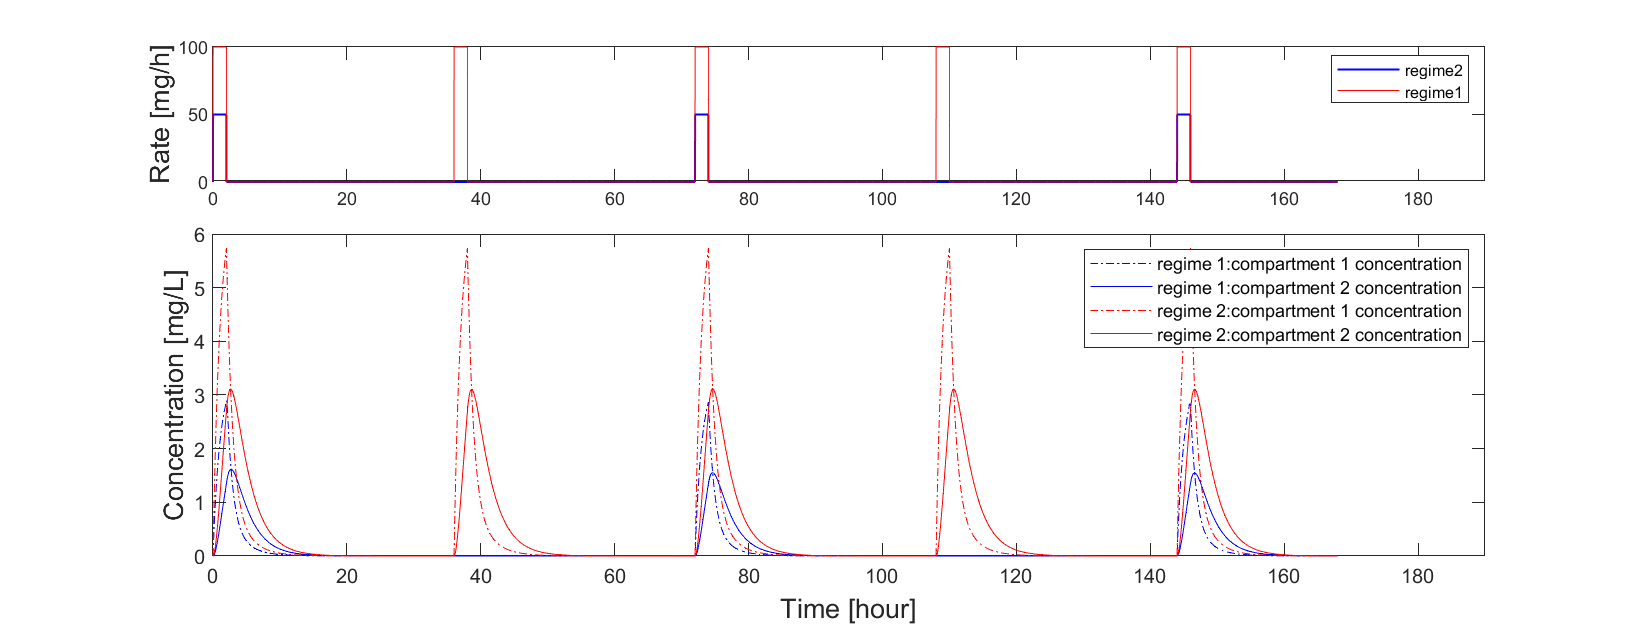
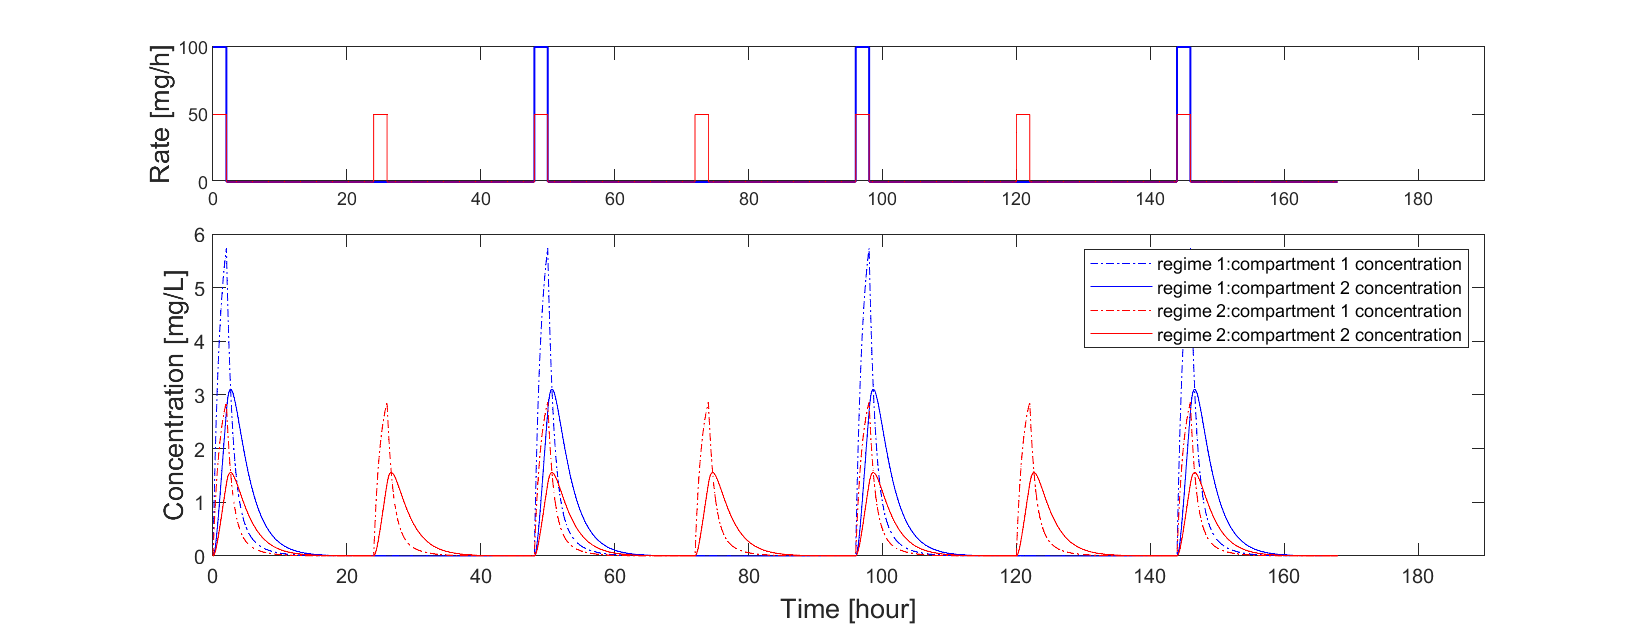
created event function to use in the running of the ode solver

diff --git a/compare_dosing_2com.m b/compare_dosing_2com.m
@@ -13,39 +13,57 @@ p.k21  = p.Q/p.V2;   % rate constant from peripheral to central
 p.regime=1;
 p.endtime=168; %h
 
-tspan = [0 p.endtime];     % max. time domain (h)
-c0 = [0 0];         % Initial concentration in each compartment
-tcourse=0:.01:tspan(2);
 
-options = odeset('MaxStep',0.5)
-p.regime=2;
-p.regime;
-[t_vals_2,c_vals_2] = ode45(@derivatives, tspan, c0, options, p);
-timedose2=r(tcourse,p);
+for regime=[1 2]
+    switch regime
+        case 1
+        p.regime=2;
+        p.interval=48;
+        p.duration=2;
+        p.Rate_0 = 50*2;
+        case 2
+        p.regime=2;
+        p.interval=24;
+        p.duration=2;
+        p.Rate_0 = 50;
+        otherwise
+            %
+    end
+    [t_vals_whole, c_vals_whole ,r_vals]=setandrunODE(p); 
 
-p.regime=1;
-[t_vals_1,c_vals_1] = ode45(@derivatives, tspan, c0, options, p);
-timedose1=r(tcourse,p);
+    switch regime
+        case 1
+        t_vals_1= t_vals_whole;
+        c_vals_1= c_vals_whole;
+        r_vals_1=r_vals;
+        case 2
+        p.regime=2;
+        t_vals_2= t_vals_whole;
+        c_vals_2= c_vals_whole;
+        r_vals_2=r_vals;
+        otherwise      %
+    end
+    
+end
 
-
+%%%%%%%%%%%%%%%%%%%%%%%%%%%%%%%%%%%%
 f = figure;
 f.Position = [100 100 1050 400];
-xlim_1=[0 tspan(2)];
+%xlim_1=[0 p.endtime];
 xlim_1=[0 190];
 subplot(3, 1, 1)
-plot(tcourse,timedose1,'b','LineWidth',1 )
+plot(t_vals_1,r_vals_1,'b','LineWidth',1,'DisplayName','regime1' )
 hold on
-plot(tcourse,timedose2,'r')
-legend('regime2','regime1')
+plot(t_vals_2,r_vals_2,'r','DisplayName','regime2')
 ylabel('\fontsize{13}Rate [mg/h]')
-xlim(xlim_1)
+xlim(xlim_1);
 subplot(3, 1, 2:3); 
 plot(t_vals_1,c_vals_1(:,1),'-.b','DisplayName','regime 1:compartment 1 concentration')
 hold on 
 plot(t_vals_1,c_vals_1(:,2),'-b','DisplayName','regime 1:compartment 2 concentration')
 plot(t_vals_2,c_vals_2(:,1),'-.r','DisplayName','regime 2:compartment 1 concentration')
 plot(t_vals_2,c_vals_2(:,2),'-r','DisplayName','regime 2:compartment 2 concentration')
-xlim(xlim_1)
+xlim(xlim_1);
 ylim([0 6])
 legend
 xlabel('\fontsize{13}Time [hour]')
@@ -55,42 +73,83 @@ ylabel('\fontsize{13}Concentration [mg/L]')
 saveas(gcf,'concentration_profiles.png')
 end
 
-%%%%%%%%%%%%%%%%%%%%%%%%%%%%%%%%%%%%%%%%%%%%
+
+%%%%%%%%%%%%%%%%%%%%%%%%%%%%%%%%%%%%%%%%%%%%%%%%%%%%%%%%%%%%%%%%%%%%%%%%%%%
+%%%%%%%%%%%%%%%%%%%%%%%%%%%%%%%%%%%%%%%%%%%%%%%%%%%%%%%%%%%%%%%%%%%%%%%%%%%
+function [t_vals_whole, c_vals_whole, r_vals]=setandrunODE(p)   
+    %set up integration
+    t_vals_whole=[];
+    c_vals_whole=[];
+    r_vals=[];
+    ie=[1 2];
+    
+    p.Rate=p.Rate_0;
+    stepsize=0.01;
+    tspan = [0 : stepsize:p.endtime];     % max. time domain (h)
+    c0 = [0 0];         % Initial concentration in each compartment
+    options = odeset('Events',@dose_events,'RelTol',1e-12, 'AbsTol',[1e-12 1e-12]);
+    %run stepwise integration
+    while ~isempty(ie)
+        if tspan(1)== p.endtime
+            "oopsies" %bug catching
+            %this happens because the while loop is not catching the last
+            %loops empty ie
+            break
+        end
+        [t_vals,c_vals,te,ye,ie]= ode15s(@derivatives, tspan, c0, options, p);
+        tspan = [te(end):stepsize: p.endtime]; 
+        c0 = [ye(end,1) ye(end,2)];
+    
+        t_vals_whole=vertcat(t_vals_whole,t_vals);
+        c_vals_whole=vertcat(c_vals_whole,c_vals);
+        r_vals=vertcat(r_vals,p.Rate*ones(length(t_vals),1));
+        %%%%%%%%%%%%%%%%%%%%%%%%%%%%%%%%%%%%%%%%
+        switch ie(end) 
+            case 1 
+                ie  %bug catching
+                ie = [];
+                "verified empty"%bug catching
+                ie   %bug catching  
+            case 2
+                 p.Rate = p.Rate_0; 
+            case 3 
+                p.Rate=0;   
+            otherwise
+                
+        end
+        %%%%%%%%%%%%%%%%%%%%%%%%%%%%%%%%%%%%%%%%
+        if isempty(ie)
+            "verified empty"%bug catching
+        end
+
+
+
+    end
+end
+
+
+%%%%%%%%%%%%%%%%%%%%%%%%%%%%%%%%%%%%%%%%%%%%%%%%%%%%%%%%%%%%%%%%%%%%%%%%%%%
+%%%%%%%%%%%%%%%%%%%%%%%%%%%%%%%%%%%%%%%%%%%%%%%%%%%%%%%%%%%%%%%%%%%%%%%%%%%
 function dcdt = derivatives(t, c, p)
-dcdt = [r(t,p)/p.V1 - (p.k+p.k12)*c(1) + p.k21*p.V2/p.V1*c(2) 
+dcdt = [p.Rate/p.V1 - (p.k+p.k12)*c(1) + p.k21*p.V2/p.V1*c(2) 
         p.k12*p.V1/p.V2*c(1) - p.k21*c(2)                    ];          
 end
-%%%%%%%%%%%%%%%%%%%%%%%%%%%%%%%%%%%%%%%%%%%%
-function rt = r(t,p)
-    switch p.regime
-        case 1
-        interval=72;
-        duration=2;
-        number_of_intervals=p.endtime/interval;
-        sum_dosing=0;
-        for counter0=0:1:number_of_intervals
-            sum_dosing=sum_dosing+(counter0*interval<t & t<counter0*interval+duration);
-            rt = 100/2*sum_dosing;
-        end
-        
+%%%%%%%%%%%%%%%%%%%%%%%%%%%%%%%%%%%%%%%%%%%%%%%%%%%%%%%%%%%%%%%%%%%%%%%%%%%
+%%%%%%%%%%%%%%%%%%%%%%%%%%%%%%%%%%%%%%%%%%%%%%%%%%%%%%%%%%%%%%%%%%%%%%%%%%%
+function [value,isterminal,direction] = dose_events(t,c,p)
+    %detect time to stop infusion 
+    value(1,1) = t-p.endtime;
+    isterminal(1,1) = 1;
+    direction(1,1) = 1;
 
-        case 2
-        interval=36;
-        duration=2;
-%         interval=24;
-%         duration=4;
-        number_of_intervals=p.endtime/interval;
-%         while 0<t & t<2
-%         number_of_intervals
-%         end 
+    %detect time to start infusion 
+    value(2,1) = p.interval/2-mod(t,p.interval);
+    isterminal(2,1) = 1;
+    direction(2,1) = 1;
+    
+    %detect time to stop infusion 
+    value(3,1) = mod(t,p.interval)-p.duration;
+    isterminal(3,1) = 1;
+    direction(3,1) =1 ;
 
-        sum_dosing=0;
-        for counter1=0:1:number_of_intervals
-            sum_dosing=sum_dosing+(counter1*interval<t & t<counter1*interval+duration);
-            rt = 2*100/2*sum_dosing;
-        end
-        
-        otherwise
-        rt=0;    
-    end 
 end
